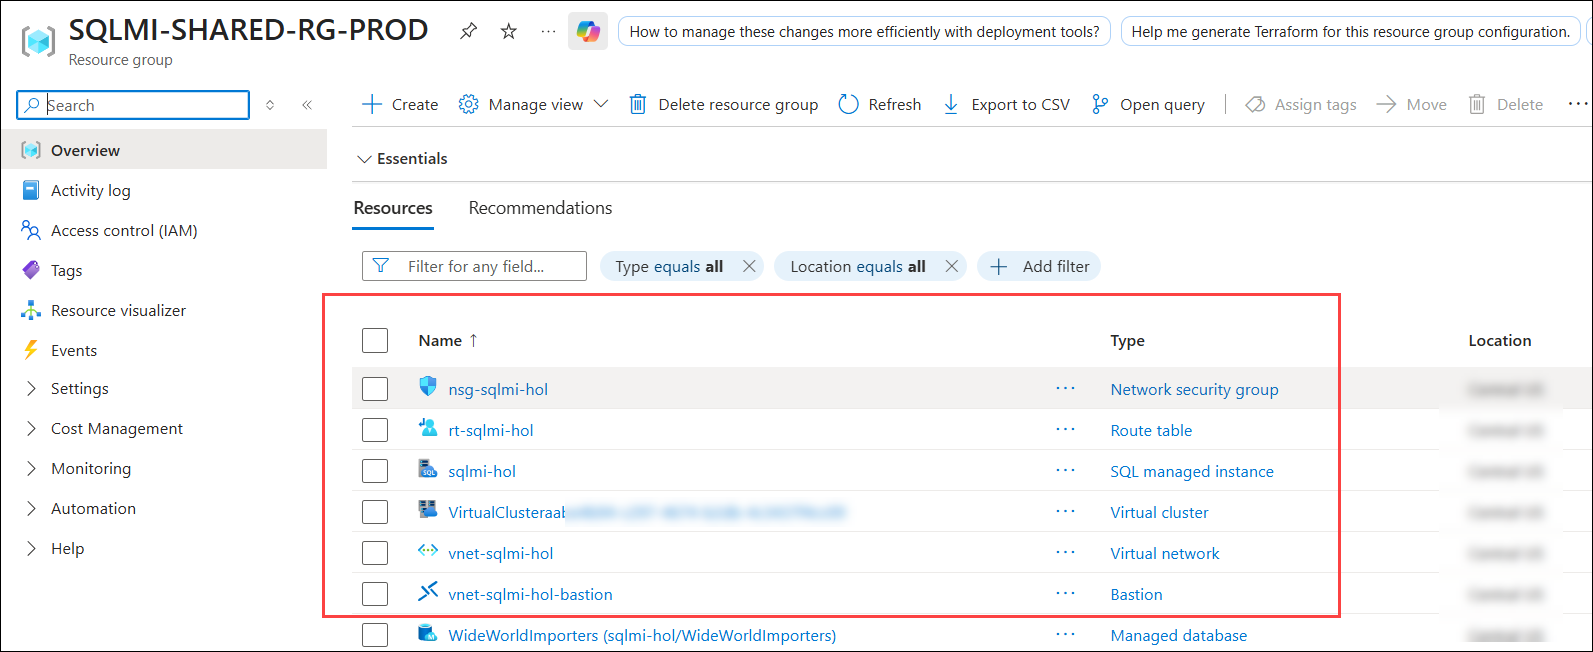
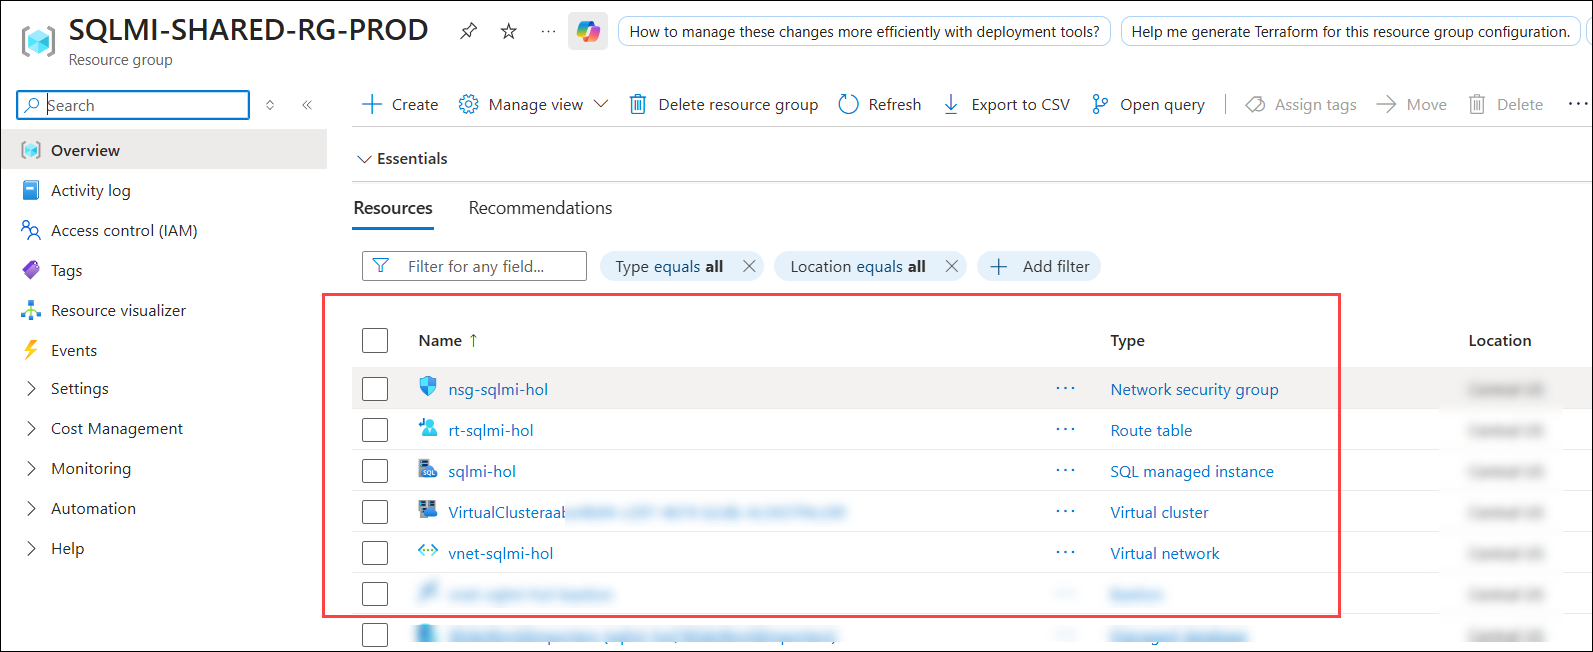
updates

Changed region(s): [[0.2461, 0.8896, 0.5229, 1.0], [0.6767, 0.9509, 0.7997, 1.0], [0.6767, 0.8896, 0.7382, 0.9202]]

diff --git a/New-HOL/02-Create-VM-to-migrate-web-application.md b/New-HOL/02-Create-VM-to-migrate-web-application.md
@@ -4,11 +4,11 @@
 
 ## 📘 Scenario
 
-In this exercise, you create a new **Windows Server 2025 Datacenter: Azure Edition** virtual machine that will be the destination for migrating Tailspin Toys' web application to Azure. You then connect to it securely using **Azure Bastion**, and confirm that it can reach the database you migrated in Exercise 1. Windows Server Datacenter: Azure Edition is a virtual-only edition that runs as an Azure virtual machine and includes capabilities such as Hotpatching, which installs security updates without requiring a restart.
+In this exercise, you create a new **Windows Server 2025 Datacenter: Azure Edition** virtual machine that will be the destination for migrating Tailspin Toys' web application to Azure. You then connect to it using **Remote Desktop**, and confirm that it can reach the database you migrated in Exercise 1. Windows Server Datacenter: Azure Edition is a virtual-only edition that runs as an Azure virtual machine and includes capabilities such as Hotpatching, which installs security updates without requiring a restart.
 
 ## 📋 Overview
 
-This exercise provisions the Azure virtual machine that will host the migrated web application. You create the virtual machine inside the lab virtual network, keep it off the public internet by omitting a public IP address, and then validate secure administrative access using Azure Bastion.
+This exercise provisions the Azure virtual machine that will host the migrated web application. You create the virtual machine inside the lab virtual network, and then validate administrative access using Remote Desktop.
 
 You then connect from the new application server to the Azure SQL Managed Instance and inspect the migrated database, which confirms that the application tier and the data tier can reach each other privately.
 
@@ -19,7 +19,7 @@ You then connect from the new application server to the Azure SQL Managed Instan
 In this exercise, you will complete the following tasks:
 
 - **Task 1:** Create a Windows Server 2025 Datacenter: Azure Edition virtual machine
-- **Task 2:** Connect to the virtual machine using Azure Bastion
+- **Task 2:** Connect to the virtual machine using Remote Desktop
 - **Task 3:** Verify connectivity to the migrated database
 
 ## Task 1: Create a Windows Server 2025 Datacenter: Azure Edition virtual machine
@@ -70,15 +70,15 @@ In this task, you provision the virtual machine that will host the migrated web 
 
    ![](img/Lab02/img4.png)
 
-1. Select **Next** to reach the **Networking** tab. Enter the following values so that the virtual machine joins the lab virtual network with no public IP address, and then select **Review + create (4)**:
+1. Select **Next** to reach the **Networking** tab. Enter the following values so that the virtual machine joins the lab virtual network, and then select **Review + create (6)**:
 
    - **Virtual network (1)**: **vnet-sqlmi-hol**
    - **Subnet (2)**: **Managed**
-   - **Public IP (3)**: **None**
+   - **Public IP (3)**: Keep the default **(new)**
+   - **Public inbound ports (4)**: **Allow selected ports**
+   - **Select inbound ports (5)**: **RDP (3389)**
 
-   > **Note:** Setting the public IP address to **None** keeps the virtual machine off the public internet. You will connect to it securely using Azure Bastion in the next task.
-
-   > **Note:** Placing the virtual machine in **vnet-sqlmi-hol** connects it to the same virtual network as the SQL Managed Instance migrated in **Exercise 1**. This allows the application to communicate with the database through the private endpoint over port **1433**, keeping the traffic within the Azure backbone.
+   > **Note:** The public IP address and the **RDP (3389)** rule let you connect to the virtual machine from your own computer in the next task. The warning that RDP allows all IP addresses is expected in this lab.
 
    > **Note:** Select the **Managed** subnet, not **ManagedInstance**. The **ManagedInstance** subnet is delegated to the SQL Managed Instance service and cannot host virtual machines.
 
@@ -96,28 +96,44 @@ In this task, you provision the virtual machine that will host the migrated web 
 
    ![](img/Lab02/img7.png)
 
-## Task 2: Connect to the virtual machine using Azure Bastion
+## Task 2: Connect to the virtual machine using Remote Desktop
 
-Because the virtual machine has no public IP address, you cannot connect to it directly over the internet. In this task, you use Azure Bastion to open a secure RDP session from inside the Azure portal.
+Because the virtual machine has a public IP address, you can connect to it directly over the internet. In this task, you use Remote Desktop to open an RDP session to the virtual machine.
 
-1. On the **tailspin-webapp-vm** virtual machine page, select **Bastion** from the left menu under **Connect**.
+1. In the left navigation pane, expand **Connect (1)**, and then select **Connect (2)**. On the **Connect** page, scroll down and click on **Download RDP file (3)**.
 
-   ![](img/Lab02/img8.png)
+   ![](img/Lab03/RDP1.png)
 
-1. On the **Bastion** pane, enter the following credentials, and then select **Connect (3)**:
+1. When the download starts, a **Downloads** pane may appear at the top right of your browser with the message **could harm your device. Do you want to keep it anyway?**. This is a standard browser warning for RDP files, and the file is safe. Click on **Keep**.
 
-   - **Username (1):** azureuser
-   - **Password (2):** azureuser!pass123
+   ![](img/Lab03/rdp2.png)
 
-   > **Note:** The Azure Bastion host, named similar to **vnet-sqlmi-hol-bastion**, was created as part of the lab environment, so you can connect without deploying anything extra.
+1. In the **Downloads** pane, click on **Open file (2)**
 
-   > **Note:** Azure Bastion delivers the RDP session to your browser over HTTPS on port 443. Port 3389 is never exposed to the internet, which removes one of the most commonly attacked entry points on a server.
+   ![](img/Lab03/rdp3.png)
 
-   > **Note:** If the session does not open, check that your browser is not blocking pop-up windows for the Azure portal.
+1. The **Remote Desktop Connection** window opens with the message **The publisher of this remote connection can't be identified. Do you want to connect anyway?**. This appears because the file is not digitally signed. Click on **Connect**.
 
-   ![](img/Lab02/img10.png)
+   ![](img/Lab03/rdp4.png)
 
-1. A new browser tab opens with the virtual machine connected over RDP through Azure Bastion. This confirms that secure remote access works.
+1. In the **Windows Security** window, enter the following credentials, and then click on **OK (3)**:
+
+   - **Username (1)**: **azureuser**
+   - **Password (2)**: **azureuser!pass123**
+
+   > **Note:** Type `.\` (a dot and a backslash) before the username, exactly as shown. It tells Windows to sign in with a local account on the virtual machine, not with an account from your own computer or organization. If the username box already shows a different account, click on **More choices**, select **Use a different account**, and then enter the username and the password.
+
+   ![](img/Lab03/rdp5.png)
+
+1. A **Remote Desktop Connection** window may show the message **The identity of the remote computer cannot be verified. Do you want to connect anyway?**. This appears because the server uses a self-signed certificate, which is expected in this lab. Click on **Yes**.
+
+   ![](img/Lab03/rdp6.png)
+
+1. Wait for a few seconds until the desktop of **tailspin-webapp-vm** appears. You are now connected to the virtual machine.
+
+   > **Note:** If you are asked for the credentials again, enter the same username and password.
+
+1. A new browser tab opens with the virtual machine connected over RDP. This confirms that remote access works.
 
    ![](img/Lab02/img9.png)
 
@@ -132,7 +148,7 @@ Because the virtual machine has no public IP address, you cannot connect to it d
 
 Placing this virtual machine in **vnet-sqlmi-hol** is what allows the application to reach the Managed Instance privately. In this task you prove it, by connecting from the new application server to the database you migrated in Exercise 1.
 
-1. Return to the Azure Bastion session for **tailspin-webapp-vm**. If you closed it, reconnect using the steps in Task 2.
+1. Return to the Remote Desktop session for **tailspin-webapp-vm**. If you closed it, reconnect using the steps in Task 2.
 
 1. Copy the following values from the **Environment** tab of your lab environment and paste them into Notepad. You will need them in the steps that follow:
 
@@ -278,7 +294,7 @@ In this exercise, you accomplished the following:
 
 - Created a Windows Server 2025 Datacenter: Azure Edition virtual machine to host the migrated web application.
 - Placed the virtual machine in the lab virtual network with no public IP address.
-- Verified secure remote desktop access to the virtual machine using Azure Bastion.
+- Verified remote desktop access to the virtual machine using Remote Desktop.
 - Confirmed private connectivity from the application server to the Azure SQL Managed Instance on port 1433.
 - Inspected the migrated database, including its configuration and its largest tables.
 

diff --git a/New-HOL/Getting-started.md b/New-HOL/Getting-started.md
@@ -20,7 +20,7 @@ By the end of this lab, you will be able to:
 
 - **Exercise 1 - Migrate the SQL Database to Azure SQL Managed Instance:** Back up the on-premises WideWorldImporters database, upload it to Azure Blob Storage, migrate it to a pre-provisioned Azure SQL Managed Instance using Azure Database Migration Service (DMS) from the Azure portal, and verify that the migrated database is online.
 
-- **Exercise 2 - Create a Virtual Machine to Host the Web Application:** Create a Windows Server 2025 Datacenter: Azure Edition virtual machine to serve as the destination host for the migrated web application, validate secure remote access using Azure Bastion, and verify private connectivity from the virtual machine to the migrated database.
+- **Exercise 2 - Create a Virtual Machine to Host the Web Application:** Create a Windows Server 2025 Datacenter: Azure Edition virtual machine to serve as the destination host for the migrated web application, connect to it using Remote Desktop, and verify private connectivity from the virtual machine to the migrated database.
 
 - **Exercise 3 - Connect the On-Premises VM to Azure Arc:** Generate and run the Azure Arc onboarding script to connect an on-premises Windows Server virtual machine to Azure, and review the management capabilities it gains through Azure Arc.
 
@@ -39,7 +39,7 @@ Participants should have:
 
 ## 🏗 Architecture
 
-This architecture represents a hybrid migration workflow. A simulated on-premises environment, consisting of a Hyper-V host virtual machine and a SQL Server virtual machine, runs the source WideWorldImporters database. The database is migrated to a pre-provisioned Azure SQL Managed Instance that resides in a delegated subnet within an Azure virtual network. A Windows Server 2025 Datacenter: Azure Edition virtual machine is provisioned within the same virtual network to host the migrated web application, with secure administrative access provided through Azure Bastion. A virtual machine running inside the Hyper-V host is Azure Arc-enabled so that it can be managed centrally from Azure without being migrated. The SQL Server virtual machine is additionally protected by an Azure Recovery Services vault, which stores its backups and provides a recovery point for restoring its disks.
+This architecture represents a hybrid migration workflow. A simulated on-premises environment, consisting of a Hyper-V host virtual machine and a SQL Server virtual machine, runs the source WideWorldImporters database. The database is migrated to a pre-provisioned Azure SQL Managed Instance that resides in a delegated subnet within an Azure virtual network. A Windows Server 2025 Datacenter: Azure Edition virtual machine is provisioned within the same virtual network to host the migrated web application, with administrative access provided through Remote Desktop. A virtual machine running inside the Hyper-V host is Azure Arc-enabled so that it can be managed centrally from Azure without being migrated. The SQL Server virtual machine is additionally protected by an Azure Recovery Services vault, which stores its backups and provides a recovery point for restoring its disks.
 
 ## 🖼 Architecture Diagram
 
@@ -61,13 +61,11 @@ This architecture represents a hybrid migration workflow. A simulated on-premise
 
 - **Windows Server 2025 Datacenter: Azure Edition VM:** The destination virtual machine that will host the migrated web application, benefiting from Azure Edition capabilities such as Hotpatching, which installs most security updates without requiring a restart.
 
-- **Azure Bastion:** Provides secure RDP connectivity to Azure virtual machines directly from the Azure portal. The web application VM has no public IP address, so it is reached only through Bastion, without exposing an RDP port to the internet.
-
 - **Azure Arc:** Extends Azure management, governance, and monitoring to machines hosted outside of Azure through the Azure Connected Machine agent. Once connected, each machine is treated as a resource in Azure with its own Azure Resource ID.
 
 - **Azure Recovery Services vault:** Stores backups of the SQL Server virtual machine and provides the restore point used to recover its disks in Exercise 4.
 
-- **Azure Virtual Network:** Hosts the lab resources, including the delegated **ManagedInstance** subnet for the Azure SQL Managed Instance, the **Managed** subnet for the virtual machines, and the **AzureBastionSubnet** for Azure Bastion.
+- **Azure Virtual Network:** Hosts the lab resources, including the delegated **ManagedInstance** subnet for the Azure SQL Managed Instance, and the **Managed** subnet for the virtual machines.
 
 ## 🚀 Getting Started with the Lab
 
@@ -179,7 +177,6 @@ This resource group holds the Azure SQL Managed Instance and the network it live
 | **vnet-sqlmi-hol** | Virtual network | The network that contains both the Managed Instance and your lab virtual machines. Because they share a virtual network, traffic between them stays on the Azure backbone and never crosses the public internet. |
 | **nsg-sqlmi-hol** | Network security group | Applied to the Managed Instance subnet. Azure requires a network security group on any subnet that hosts a Managed Instance. |
 | **rt-sqlmi-hol** | Route table | Also applied to the Managed Instance subnet, and also required by Azure. It directs Managed Instance management traffic correctly. |
-| **vnet-sqlmi-hol-bastion** | Bastion | Provides the secure browser-based RDP sessions you use to connect to the virtual machines in Exercises 2 and 3, without any virtual machine needing an open RDP port on the internet. |
 | **VirtualCluster...** | Virtual cluster | Created automatically by Azure when the Managed Instance was deployed. It is part of the Managed Instance infrastructure and is not something you interact with. |
 
 ### How the network is laid out
@@ -191,7 +188,6 @@ The virtual network **vnet-sqlmi-hol** is divided into subnets, and each one has
 | **ManagedInstance** | 10.0.0.0/24 | The SQL Managed Instance. This subnet is *delegated* to the Managed Instance service, which means no other resource type can be placed in it. |
 | **Managed** | 10.0.1.0/24 | Your lab virtual machines, and the web application virtual machine you create in Exercise 2. |
 | **DMS** | 10.0.2.0/24 | Reserved for Azure Database Migration Service. |
-| **AzureBastionSubnet** | 10.0.3.0/26 | Azure Bastion. This subnet must carry exactly this name, which is a requirement of the Bastion service. |
 
 > **Note:** This layout is the reason the migration works over a private connection. Because your virtual machines sit in the **Managed** subnet and the Managed Instance sits in the **ManagedInstance** subnet of the same virtual network, they reach each other on port **1433** over the private endpoint. Had they been in separate virtual networks, the Managed Instance would only have been reachable over its public endpoint on port 3342.
 

diff --git a/New-HOL/03-Azure-Arc-enable-on-premises-VM.md b/New-HOL/03-Azure-Arc-enable-on-premises-VM.md
@@ -78,18 +78,38 @@ In this task, you connect to the simulated on-premises server and run the onboar
 
    ![](img/Lab03/img8.png)
 
-1. On the left menu, under **Connect (1)**, select **Bastion (2)**.
+1. In the left navigation pane, expand **Connect (1)**, and then select **Connect (2)**. On the **Connect** page, scroll down and click on **Download RDP file (3)**.
 
-   ![](img/Lab03/img9.png)
+   ![](img/Lab03/RDP1.png)
 
-1. Enter the following credentials, and then select **Connect (3)**:
+1. When the download starts, a **Downloads** pane may appear at the top right of your browser with the message **could harm your device. Do you want to keep it anyway?**. This is a standard browser warning for RDP files, and the file is safe. Click on **Keep**.
 
-   - **Username (1)**: labuser
-   - **VM Password (2)**: labuser!pass123
+   ![](img/Lab03/rdp2.png)
 
-   > **Note:** The virtual machine opens in a new browser tab. Azure Bastion provides this session over HTTPS, so the Hyper-V host never needs an open RDP port on the internet.
+1. In the **Downloads** pane, click on **Open file (2)** under the **tailspin-onprem-<inject key="DeploymentID" enableCopy="false"/>-hyperv-vm.rdp** file.
 
-   ![](img/Lab03/img10.png)
+   ![](img/Lab03/rdp3.png)
+
+1. The **Remote Desktop Connection** window opens with the message **The publisher of this remote connection can't be identified. Do you want to connect anyway?**. This appears because the file is not digitally signed. Click on **Connect**.
+
+   ![](img/Lab03/rdp4.png)
+
+1. In the **Windows Security** window, enter the following credentials, and then click on **OK (3)**:
+
+   - **Username (1)**: **labuser**
+   - **Password (2)**: **labuser!pass123**
+
+   > **Note:** Type `.\` (a dot and a backslash) before the username, exactly as shown. It tells Windows to sign in with a local account on the virtual machine, not with an account from your own computer or organization. If the username box already shows a different account, click on **More choices**, select **Use a different account**, and then enter the username and the password.
+
+   ![](img/Lab03/rdp5.png)
+
+1. A **Remote Desktop Connection** window may show the message **The identity of the remote computer cannot be verified. Do you want to connect anyway?**. This appears because the server uses a self-signed certificate, which is expected in this lab. Click on **Yes**.
+
+   ![](img/Lab03/rdp6.png)
+
+1. Wait for a few seconds until the desktop of the Hyper-V host appears. You are now connected to the virtual machine.
+
+   > **Note:** If you are asked for the credentials again, enter the same username and password.
 
 1. On the Hyper-V host, double-click on **Hyper-V Manager** to open it.
 
